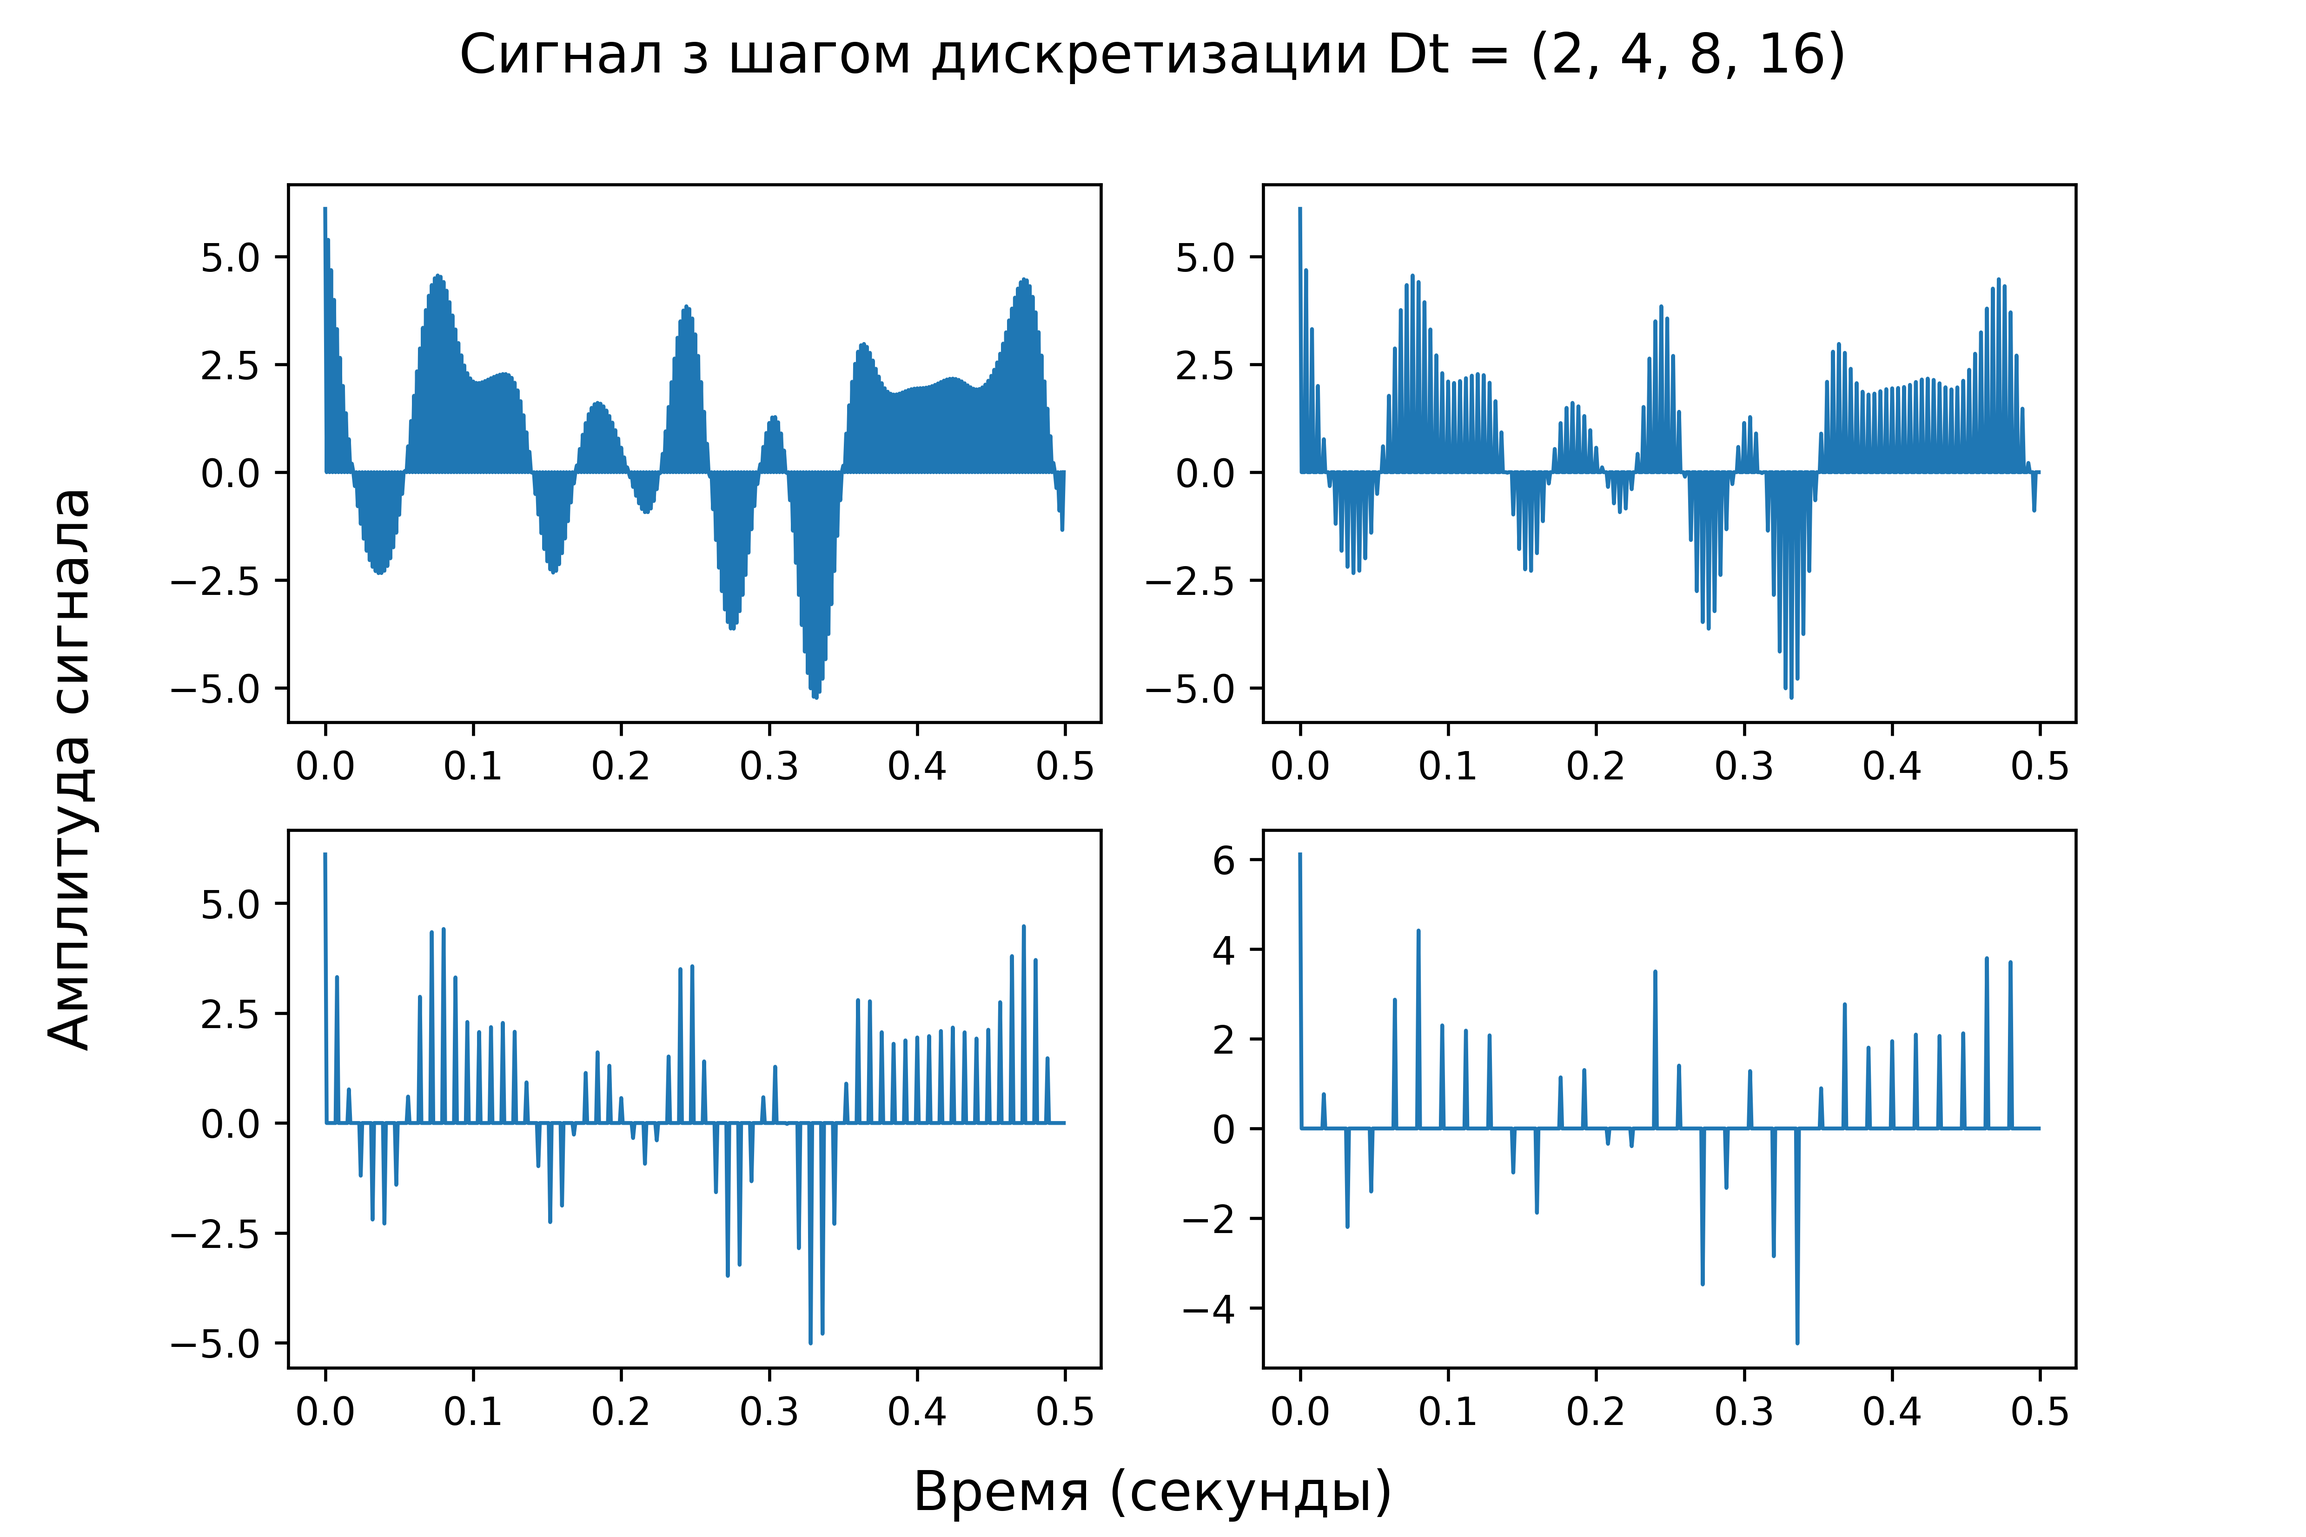
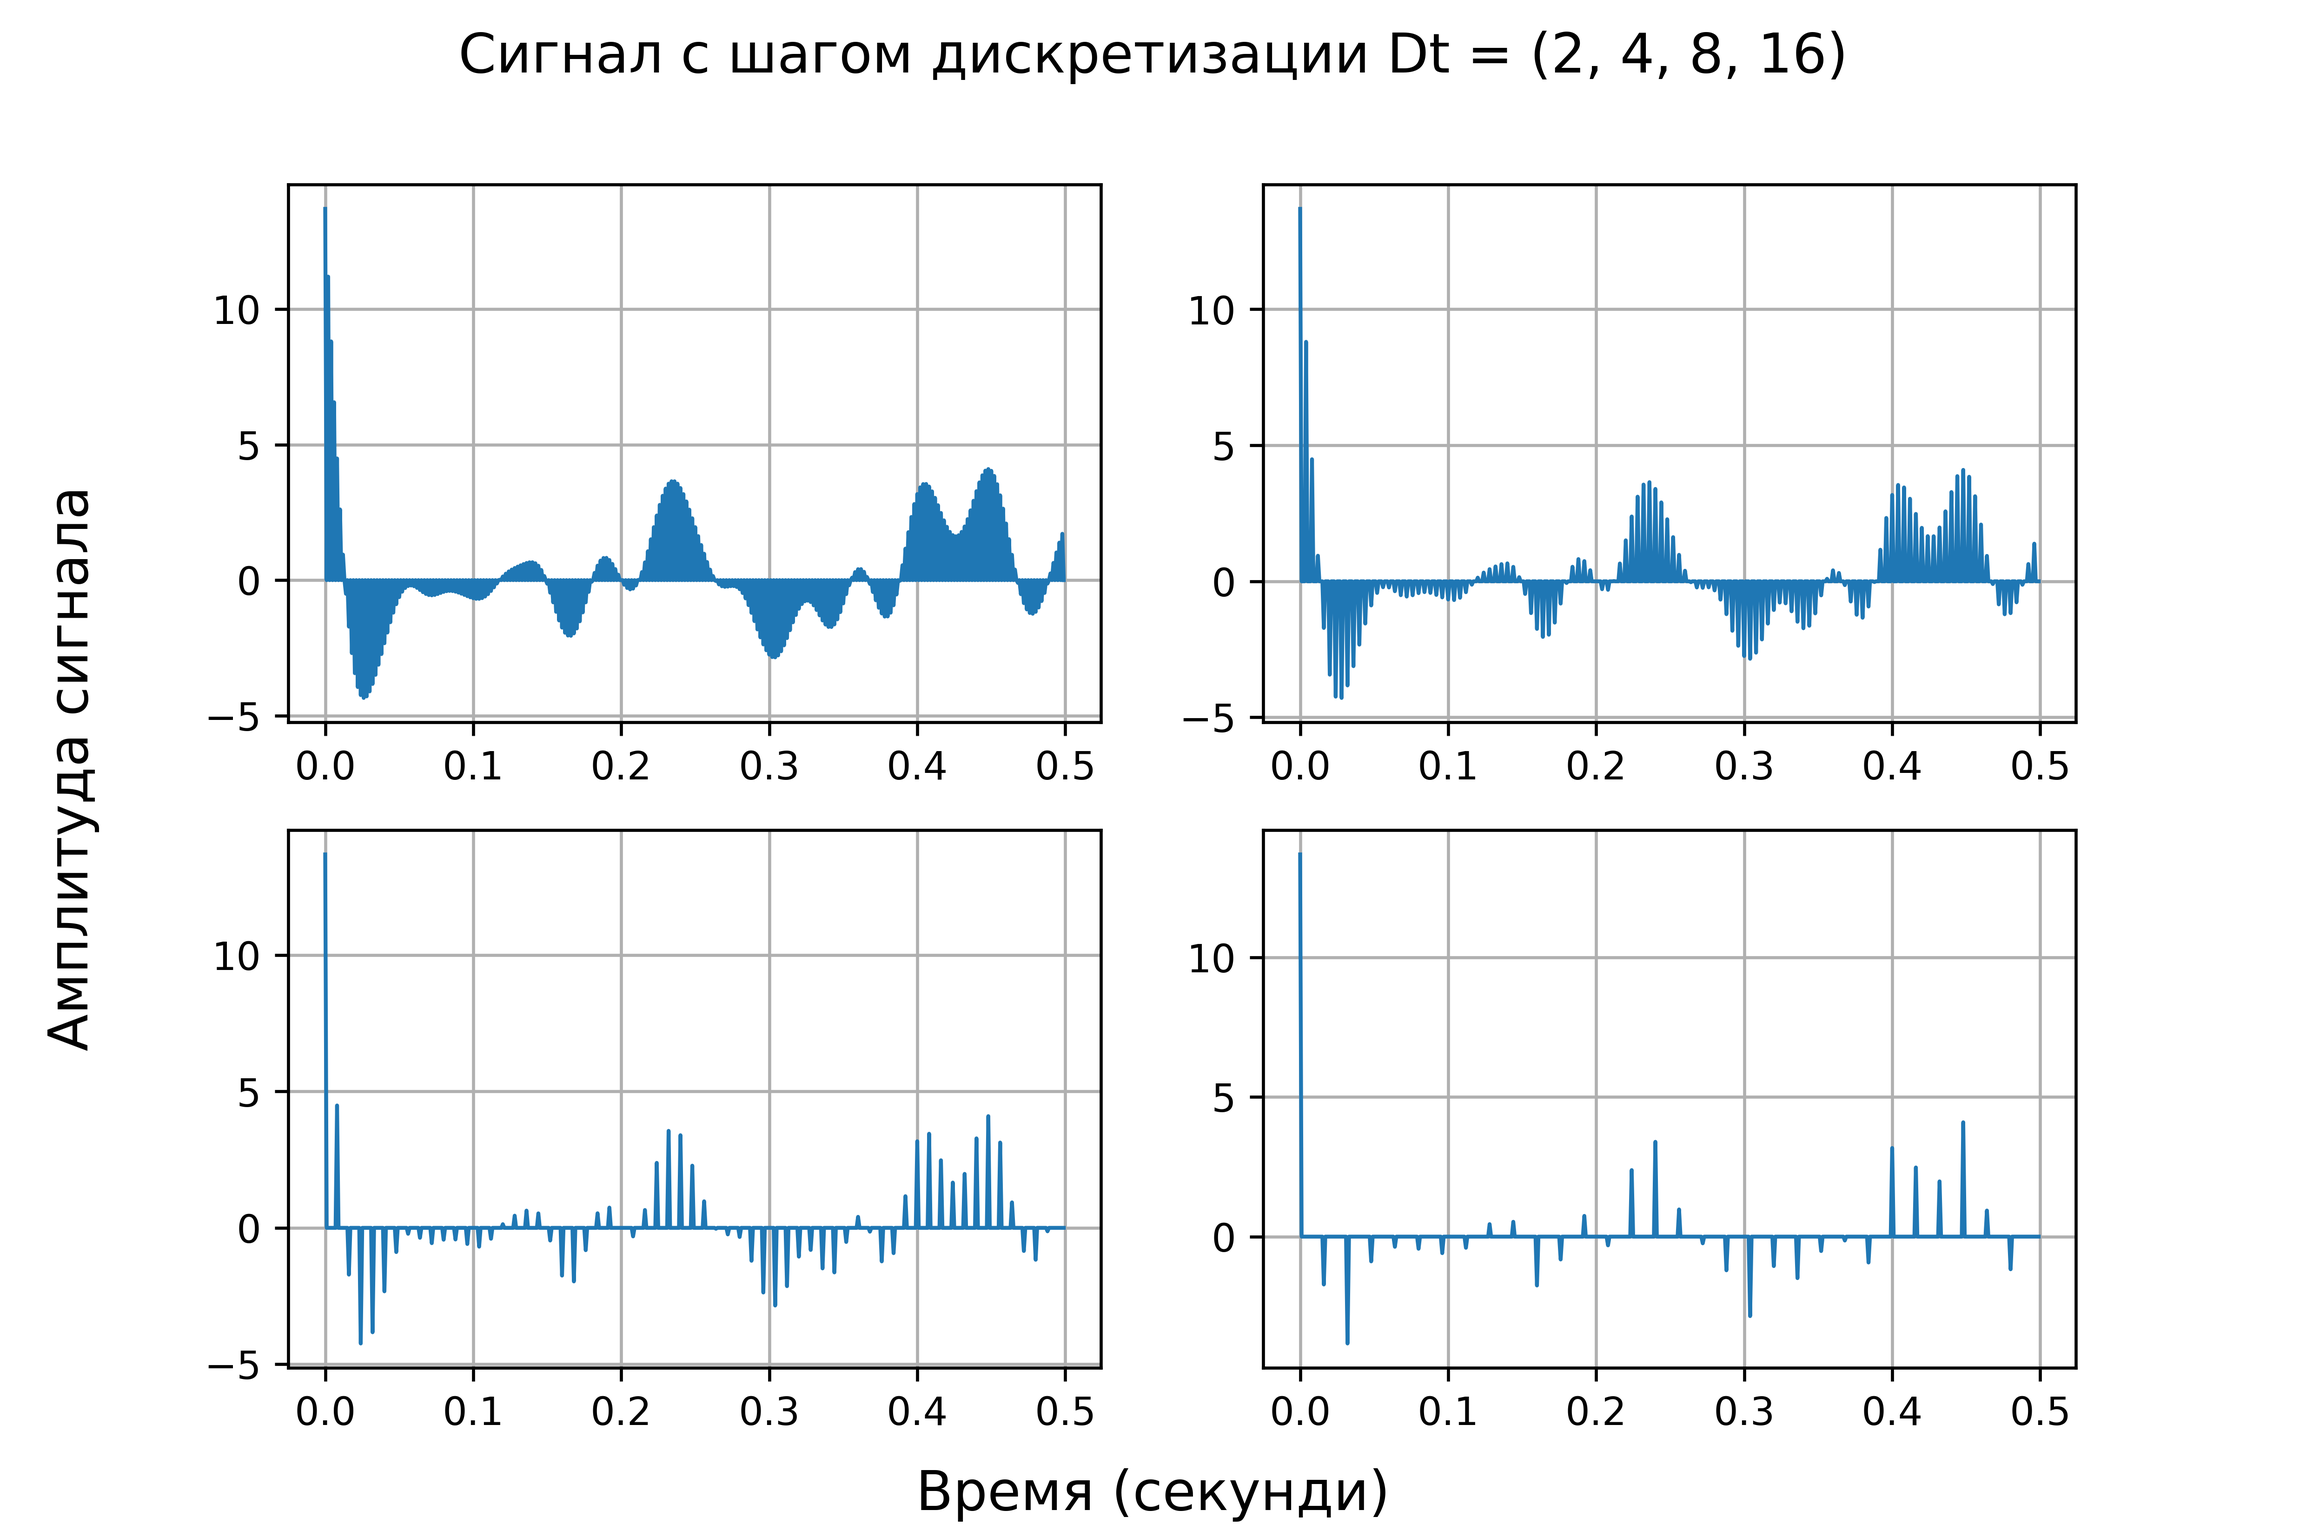
Signal Processing 3

diff --git a/SignalProcessing/SignalProcessing.py b/SignalProcessing/SignalProcessing.py
@@ -1,33 +1,20 @@
 import numpy
+import numpy as np
 import scipy
 import matplotlib.pyplot as plt
-
-
+from numpy import fft
+from scipy import signal
 # вариант 10 Замерець
-
 n = 500
 Fs = 1000
 Fmax = 21
 F_filter = 28
-
 random = numpy.random.normal(0, 10,  n)
-print(random)
 time_line_ox = numpy.arange(n)/Fs
-print(time_line_ox)
-
 w = Fmax/(Fs/2)
-
 parameters_filter = scipy.signal.butter(3, w, 'low', output='sos')
-
-
-
 filtered_signal = scipy.signal.sosfiltfilt(parameters_filter, random)
-
-print(filtered_signal)
-
 # график 1
-
-
 fig, ax = plt.subplots(figsize=(21/2.54, 14/2.54))
 ax.plot(time_line_ox, filtered_signal, linewidth = 1)
 ax.set_xlabel("Время (секунды) ", fontsize = 14)
@@ -36,111 +23,163 @@ plt.title("Сигнал с максимальной частотой Fmax = 21",
 ax.grid()
 fig.savefig('./figures/' + 'график 1' + '.png', dpi = 600)
 dpi = 600
-
 # расчет для второго графика
 spectrum = scipy.fft.fft(filtered_signal)
 spectrum = numpy.abs(scipy.fft.fftshift(spectrum))
 length_signal = n
 freq_countdown = scipy.fft.fftfreq(length_signal, 1/length_signal)
 freq_countdown = scipy.fft.fftshift(freq_countdown)
-
 #второй график
-
 fig, ax = plt.subplots(figsize=(21/2.54, 14/2.54))
 ax.plot(freq_countdown, spectrum, linewidth = 1)
 ax.set_xlabel("Время (секунды) ", fontsize = 14)
 ax.set_ylabel("Амплитуда спектра ", fontsize = 14)
-
 plt.title("Спектр сигнала с максимальной частотой Fmax = 21", fontsize = 14)
 ax.grid()
 fig.savefig('./figures/' + 'график 2' + '.png', dpi=600)
-
-
 # Практична робота №3
-discrete_spectrums = []
-E1 = []
 discrete_signals = []
-discrete_signal_after_filers = []
-w = F_filter / (Fs / 2)
-parameters_fil = scipy.signal.butter(3, w, 'low', output='sos')
-filtered_signal_2 = None
-for Dt in [2, 4, 8, 16]:
+steps = (2, 4, 8, 16)
+for Dt in steps:
     discrete_signal = numpy.zeros(n)
     for i in range(0, round(n / Dt)):
         discrete_signal[i * Dt] = filtered_signal[i * Dt]
-        filtered_signal_2 = scipy.signal.sosfiltfilt(parameters_fil, discrete_signal)
-    discrete_signals += [list(discrete_signal)]
-    discrete_spectrum = scipy.fft.fft(discrete_signals)
-    discrete_spectrum = numpy.abs(scipy.fft.fftshift(discrete_spectrum))
-    discrete_spectrums += [list(discrete_spectrum)]
-    discrete_signal_after_filers += [list(filtered_signal_2)]
+    discrete_signals.append(list(discrete_signal))
 
-
-s = 0
 fig, ax = plt.subplots(2, 2, figsize=(21 / 2.54, 14 / 2.54))
+s = 0
 for i in range(0, 2):
     for j in range(0, 2):
         ax[i][j].plot(time_line_ox, discrete_signals[s], linewidth=1)
+        ax[i][j].grid()
         s += 1
-fig.supxlabel("Время (секунды)", fontsize=14)
-fig.supylabel("Амплитуда сигнала", fontsize=14)
-fig.suptitle("Сигнал з шагом дискретизации Dt = (2, 4, 8, 16)", fontsize=14)
+fig.supxlabel('Время (секунди)', fontsize=14)
+fig.supylabel('Амплитуда сигнала', fontsize=14)
+fig.suptitle(f'Сигнал с шагом дискретизации Dt = {steps}', fontsize=14)
 fig.savefig('./figures/' + 'график 3' + '.png', dpi=600)
 
-# новое
+discrete_spectrums = []
+for Ds in discrete_signals:
+    spectrum = fft.fft(Ds)
+    spectrum = numpy.abs(fft.fftshift(spectrum))
+    discrete_spectrums.append(list(spectrum))
 
-s = 0
+freq_countdown = fft.fftfreq(n, 1 / n)
+freq_countdown = fft.fftshift(freq_countdown)
 fig, ax = plt.subplots(2, 2, figsize=(21 / 2.54, 14 / 2.54))
+s = 0
 for i in range(0, 2):
     for j in range(0, 2):
-        ax[i][j].plot(freq_countdown, discrete_spectrum[s], linewidth=1)
+        ax[i][j].plot(freq_countdown, discrete_spectrums[s], linewidth=1)
+        ax[i][j].grid()
         s += 1
-fig.supxlabel("Частота (Гц)", fontsize=14)
-fig.supylabel("Амплитуда спектра", fontsize=14)
-fig.suptitle("Сигнал з шагом дискретизации Dt = (2, 4, 8, 16)", fontsize=14)
+fig.supxlabel('Частота (Гц) ', fontsize=14)
+fig.supylabel('Амплитуда спектра', fontsize=14)
+fig.suptitle(f'Спектры сигналов с шагом дискретизации Dt = {steps}', fontsize=14)
 fig.savefig('./figures/' + 'график 4' + '.png', dpi=600)
-
-
-##ssss
-s = 0
+w = F_filter / (Fs / 2)
+parameters_filter = signal.butter(3, w, 'low', output='sos')
+filtered_discretes_signal = []
+for discrete_signal in discrete_signals:
+    discrete_signal = signal.sosfiltfilt(parameters_filter, discrete_signal)
+    filtered_discretes_signal.append(list(discrete_signal))
 fig, ax = plt.subplots(2, 2, figsize=(21 / 2.54, 14 / 2.54))
+s = 0
 for i in range(0, 2):
     for j in range(0, 2):
-        ax[i][j].plot(time_line_ox, discrete_signal_after_filers[s], linewidth=1)
+        ax[i][j].plot(time_line_ox, filtered_discretes_signal[s], linewidth=1)
+        ax[i][j].grid()
         s += 1
-fig.supxlabel("Время (секунды)", fontsize=14)
-fig.supylabel("Амплитуда сигнала", fontsize=14)
-fig.suptitle("Сигнал з шагом дискретизации Dt = (2, 4, 8, 16)", fontsize=14)
+fig.supxlabel('Время (секунды)', fontsize=14)
+fig.supylabel('Амплитуда сигнала', fontsize=14)
+fig.suptitle(f'Востановленные аналоговые сигналы с шагом дискретизации Dt = {steps}', fontsize=14)
 fig.savefig('./figures/' + 'график 5' + '.png', dpi=600)
-
-print("discrete_signal_after_filers: ", discrete_signal_after_filers)
-
-
-E1 = discrete_signal_after_filers - filtered_signal
-disp_start = numpy.var(filtered_signal)
-disp_restored = numpy.var(E1)
-E2 = [1.0, 1.2, 1.3, 1.4]
-relation_signal_noise = numpy.var(filtered_signal) / numpy.var(E1)
-
-x_axis = [2, 4, 8, 16]
-fig, ax = plt.subplots(figsize=(21/2.54, 14/2.54))
-
-ax.plot(x_axis, E2, linewidth = 2)
-ax.set_xlabel("Шаг дискретизации", fontsize = 14)
-ax.set_ylabel("Дисперсия ", fontsize = 14)
-
-plt.title("Зависимость дисперсии от шага дискретизации", fontsize = 14)
+dispersions = []
+signal_noise = []
+for i in range(len(steps)):
+    E1 = filtered_discretes_signal[i] - filtered_signal
+    dispersion = numpy.var(E1)
+    dispersions.append(dispersion)
+    signal_noise.append(numpy.var(filtered_signal) / dispersion)
+fig, ax = plt.subplots(figsize=(21 / 2.54, 14 / 2.54))
+ax.plot(steps, dispersions, linewidth=1)
+ax.set_xlabel('Шаг дискретизации', fontsize=14)
+ax.set_ylabel('Дисперсия', fontsize=14)
+plt.title(f'Зависимость дисперсии от шага дискретизации', fontsize=14)
 ax.grid()
 fig.savefig('./figures/' + 'график 6' + '.png', dpi=600)
-
-
-########################
-
-fig, ax = plt.subplots(figsize=(21/2.54, 14/2.54))
-relation_signal_noise2 = [4.0, 3.0, 2.0, 1.0]
-ax.plot(x_axis, relation_signal_noise2, linewidth = 1)
-ax.set_xlabel("Шаг дискретизации ", fontsize = 14)
-ax.set_ylabel("ССШ ", fontsize = 14)
-plt.title("Зависимость дисперсии от шага дискретизации", fontsize = 14)
+fig, ax = plt.subplots(figsize=(21 / 2.54, 14 / 2.54))
+ax.plot(steps, signal_noise, linewidth=1)
+ax.set_xlabel('Шаг дискретизации', fontsize=14)
+ax.set_ylabel('ССШ', fontsize=14)
+plt.title(f'Зависимость соотношения сигнал-шум от шага дискретизации', fontsize=14)
 ax.grid()
 fig.savefig('./figures/' + 'график 7' + '.png', dpi=600)
+#PZ 4
+bits_list = []
+quantize_signals = []
+num = 0
+for M in [4, 16, 64, 256]:
+    delta = (numpy.max(filtered_signal) - numpy.min(filtered_signal)) / (M - 1)
+    quantize_signal = delta * np.round(filtered_signal / delta)
+    quantize_signals.append(list(quantize_signal))
+    quantize_levels = numpy.arange(numpy.min(quantize_signal), numpy.max(quantize_signal) + 1, delta)
+    quantize_bit = numpy.arange(0, M)
+    quantize_bit = [format(bits, '0' + str(int(numpy.log(M) / numpy.log(2))) + 'b') for bits in quantize_bit]
+    quantize_table = numpy.c_[quantize_levels[:M], quantize_bit[:M]]
+    fig, ax = plt.subplots(figsize=(14 / 2.54, M / 2.54))
+    table = ax.table(cellText=quantize_table, colLabels=['Значение сигнала', 'Кодовая последовательность'], loc='center')
+    table.set_fontsize(14)
+    table.scale(1, 2)
+    ax.axis('off')
+    fig.savefig('./figures/' + 'Таблица квантования для %d уровней ' % M + '.png', dpi=600)
+    bits = []
+    for signal_value in quantize_signal:
+        for index, value in enumerate(quantize_levels[:M]):
+            if numpy.round(numpy.abs(signal_value - value), 0) == 0:
+                bits.append(quantize_bit[index])
+                break
+
+    bits = [int(item) for item in list(''.join(bits))]
+    bits_list.append(bits)
+    fig, ax = plt.subplots(figsize=(21 / 2.54, 14 / 2.54))
+    ax.step(numpy.arange(0, len(bits)), bits, linewidth=0.1)
+    ax.set_xlabel('Биты', fontsize=14)
+    ax.set_ylabel('Амплитуда сигнала', fontsize=14)
+    plt.title(f'Кодовая последовательность при количестве уровней квантования {M}', fontsize=14)
+    ax.grid()
+    fig.savefig('./figures/' + 'График %d ' % (8 + num) + '.png', dpi=600)
+    num += 1
+dispersions = []
+signal_noise = []
+for i in range(4):
+    E1 = quantize_signals[i] - filtered_signal
+    dispersion = numpy.var(E1)
+    dispersions.append(dispersion)
+    signal_noise.append(numpy.var(filtered_signal) / dispersion)
+fig, ax = plt.subplots(2, 2, figsize=(21 / 2.54, 14 / 2.54))
+s = 0
+for i in range(0, 2):
+    for j in range(0, 2):
+        ax[i][j].plot(time_line_ox, quantize_signals[s], linewidth=1)
+        ax[i][j].grid()
+        s += 1
+fig.supxlabel('Время (секунды)', fontsize=14)
+fig.supylabel('Амплитуда сигнала', fontsize=14)
+fig.suptitle(f'Цифровые сигналы с уровнями квантования (4, 16, 64, 256)', fontsize=14)
+fig.savefig('./figures/' + 'график 12' + '.png', dpi=600)
+fig, ax = plt.subplots(figsize=(21 / 2.54, 14 / 2.54))
+ax.plot([4, 16, 64, 256], dispersions, linewidth=1)
+ax.set_xlabel('Количество уровней квантования', fontsize=14)
+ax.set_ylabel('Дисперсия', fontsize=14)
+plt.title(f'Зависимость дисперсии от количества уровней квантования', fontsize=14)
+ax.grid()
+fig.savefig('./figures/' + 'график 13' + '.png', dpi=600)
+fig, ax = plt.subplots(figsize=(21 / 2.54, 14 / 2.54))
+ax.plot([4, 16, 64, 256], signal_noise, linewidth=1)
+ax.set_xlabel('Количество уровней квантования', fontsize=14)
+ax.set_ylabel('ССШ', fontsize=14)
+plt.title(f'Зависимость соотношения сигнал-шум от количества уровней квантования', fontsize=14)
+ax.grid()
+fig.savefig('./figures/' + 'график 14' + '.png', dpi=600)
+print("sign.noise: ", signal_noise)
